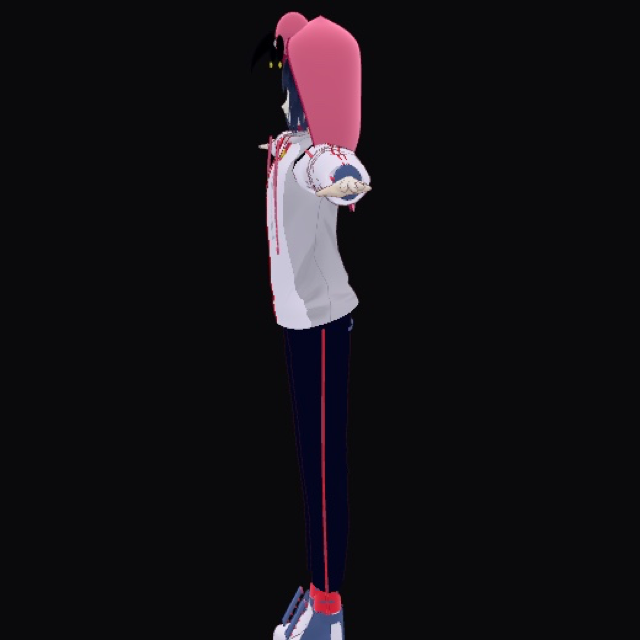
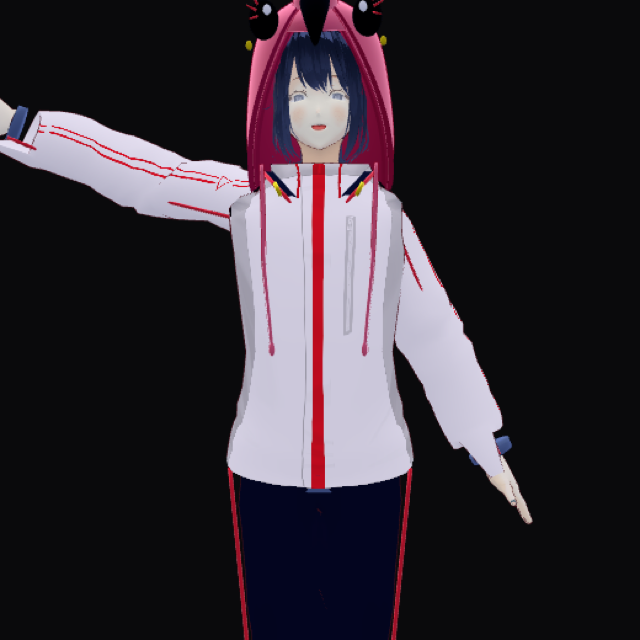
fix: replace spin demos with real presentation motion
- 05 VRM: head look, blink, talk, arm phases (front camera, no carousel)
- 03/04 mesh: bob/rock + short yaw arc instead of full 360 spin
- view3d multi-panel same present mode; README captions updated

Changed region(s): [[0.0, 0.0, 0.8438, 1.0]]

diff --git a/demos/view3d/capture.html b/demos/view3d/capture.html
@@ -2,14 +2,14 @@
 <html lang="ko">
 <head>
 <meta charset="utf-8" />
-<title>slot capture</title>
+<title>slot capture — real motion</title>
 <style>
   html, body { margin:0; width:100%; height:100%; overflow:hidden; background:#0a0a0c; }
   canvas { display:block; width:100%; height:100%; }
   #status {
     position:fixed; left:12px; top:12px; z-index:2; color:#9aa3b2;
     font:12px/1.3 system-ui,sans-serif; opacity:.85; pointer-events:none;
-    display:none; /* hidden for clean README GIFs; ?debug=1 to show */
+    display:none;
   }
 </style>
 </head>
@@ -25,6 +25,11 @@
 }
 </script>
 <script type="module">
+/**
+ * README motion capture — NOT endless turntable.
+ *  obj/fbx: bob + rock + short yaw arc (mesh has no usable rig)
+ *  vrm: head / blink / talk / arm pose phases (like 06 demoMotion)
+ */
 import * as THREE from 'three';
 import { FBXLoader } from 'three/addons/loaders/FBXLoader.js';
 import { OBJLoader } from 'three/addons/loaders/OBJLoader.js';
@@ -37,7 +42,6 @@ const SIZE = Math.min(720, Math.max(480, Number(params.get('size') || 560)));
 const status = document.getElementById('status');
 if (params.get('debug') === '1') status.style.display = 'block';
 
-// fixed pixel size for consistent capture
 document.documentElement.style.width = SIZE + 'px';
 document.documentElement.style.height = SIZE + 'px';
 document.body.style.width = SIZE + 'px';
@@ -70,22 +74,39 @@ scene.add(fill);
 
 let root = null;
 let vrm = null;
+let meshMax = 1;
+let lookY = 0;
+let camDist = 1;
 let t0 = performance.now();
 window.__captureReady = false;
 window.__captureKind = kind;
+
+function smoothstep(a, b, x) {
+  const t = Math.min(1, Math.max(0, (x - a) / (b - a)));
+  return t * t * (3 - 2 * t);
+}
+function lerp(a, b, t) { return a + (b - a) * t; }
 
 function fit(object, offset = 1.4) {
   const box = new THREE.Box3().setFromObject(object);
   const size = box.getSize(new THREE.Vector3());
   const center = box.getCenter(new THREE.Vector3());
-  const max = Math.max(size.x, size.y, size.z) || 1;
+  meshMax = Math.max(size.x, size.y, size.z) || 1;
   object.position.sub(center);
-  // slight lift for characters
-  if (kind === 'vrm') object.position.y += size.y * 0.02;
-  camera.position.set(max * 0.85, max * 0.45, max * offset);
-  camera.near = max / 200;
-  camera.far = max * 50;
-  camera.lookAt(0, kind === 'vrm' ? max * 0.08 : 0, 0);
+  if (kind === 'vrm') {
+    // bust-up, face camera (three-vrm faces -Z after rotateVRM0 → cam on -Z)
+    lookY = size.y * 0.22;
+    object.position.y += size.y * 0.02;
+    camDist = Math.max(size.y, size.x) * 1.05;
+    camera.position.set(0, lookY + size.y * 0.02, -camDist * 0.85);
+  } else {
+    lookY = 0;
+    camDist = meshMax * offset;
+    camera.position.set(meshMax * 0.55, meshMax * 0.35, camDist);
+  }
+  camera.near = meshMax / 200;
+  camera.far = meshMax * 50;
+  camera.lookAt(0, lookY, 0);
   camera.updateProjectionMatrix();
 }
 
@@ -96,15 +117,157 @@ function setObject(obj, fitOff) {
   fit(obj, fitOff);
 }
 
+function bone(name) {
+  if (!vrm?.humanoid) return null;
+  try {
+    return vrm.humanoid.getNormalizedBoneNode(name);
+  } catch {
+    return null;
+  }
+}
+
+function setExpr(name, v) {
+  if (!vrm?.expressionManager) return;
+  try { vrm.expressionManager.setValue(name, v); } catch {}
+}
+
+/** VRM: multi-phase motion — NOT a spin */
+function animateVrm(t) {
+  const head = bone('head');
+  const neck = bone('neck');
+  const chest = bone('chest') || bone('upperChest');
+  const spine = bone('spine');
+  const lUpper = bone('leftUpperArm');
+  const rUpper = bone('rightUpperArm');
+  const lLower = bone('leftLowerArm');
+  const rLower = bone('rightLowerArm');
+  const lHand = bone('leftHand');
+  const rHand = bone('rightHand');
+
+  // idle breath
+  const breath = Math.sin(t * 2.2) * 0.015;
+  if (spine) spine.rotation.x = breath;
+  if (chest) chest.rotation.x = breath * 0.6;
+
+  // phases ~1.8s: look → blink/talk → arms out → wave R → rest
+  const cycle = 9.0;
+  const u = t % cycle;
+  const p = Math.floor(u / 1.8); // 0..4
+  const local = (u % 1.8) / 1.8;
+  const ease = smoothstep(0, 0.25, local) * (1 - smoothstep(0.75, 1, local));
+
+  // reset arms toward rest (T-pose VRM often needs down)
+  const restArm = 1.15; // fold arms down from T
+  if (lUpper) { lUpper.rotation.z = restArm; lUpper.rotation.x = 0; lUpper.rotation.y = 0; }
+  if (rUpper) { rUpper.rotation.z = -restArm; rUpper.rotation.x = 0; rUpper.rotation.y = 0; }
+  if (lLower) { lLower.rotation.x = 0.1; lLower.rotation.y = 0; lLower.rotation.z = 0; }
+  if (rLower) { rLower.rotation.x = 0.1; rLower.rotation.y = 0; rLower.rotation.z = 0; }
+  if (lHand) { lHand.rotation.set(0, 0, 0); }
+  if (rHand) { rHand.rotation.set(0, 0, 0); }
+
+  setExpr('blink', 0);
+  setExpr('aa', 0);
+  setExpr('ih', 0);
+  setExpr('ou', 0);
+  setExpr('happy', 0);
+
+  if (head) {
+    head.rotation.x = Math.sin(t * 1.1) * 0.04;
+    head.rotation.y = 0;
+    head.rotation.z = Math.sin(t * 0.7) * 0.03;
+  }
+  if (neck) neck.rotation.y = 0;
+
+  if (p === 0) {
+    // look L/R
+    if (head) head.rotation.y = Math.sin(local * Math.PI * 2) * 0.45 * ease;
+    if (neck) neck.rotation.y = head ? head.rotation.y * 0.4 : 0;
+  } else if (p === 1) {
+    // blink + talk
+    const blink = local < 0.15 ? smoothstep(0, 0.07, local) * (1 - smoothstep(0.08, 0.15, local))
+      : (local > 0.55 && local < 0.7)
+        ? smoothstep(0.55, 0.6, local) * (1 - smoothstep(0.62, 0.7, local))
+        : 0;
+    setExpr('blink', blink);
+    const talk = 0.5 + 0.5 * Math.sin(local * Math.PI * 8);
+    setExpr('aa', talk * 0.7 * ease);
+    setExpr('ih', (1 - talk) * 0.35 * ease);
+    if (head) head.rotation.x = 0.05 + Math.sin(local * 20) * 0.02;
+  } else if (p === 2) {
+    // both arms forward/out
+    if (lUpper) {
+      lUpper.rotation.z = lerp(restArm, 0.35, ease);
+      lUpper.rotation.x = lerp(0, -0.6, ease);
+      lUpper.rotation.y = lerp(0, 0.25, ease);
+    }
+    if (rUpper) {
+      rUpper.rotation.z = lerp(-restArm, -0.35, ease);
+      rUpper.rotation.x = lerp(0, -0.6, ease);
+      rUpper.rotation.y = lerp(0, -0.25, ease);
+    }
+    if (lLower) lLower.rotation.x = lerp(0.1, 0.5, ease);
+    if (rLower) rLower.rotation.x = lerp(0.1, 0.5, ease);
+    setExpr('happy', 0.4 * ease);
+  } else if (p === 3) {
+    // wave right
+    if (rUpper) {
+      rUpper.rotation.z = lerp(-restArm, -0.2, ease);
+      rUpper.rotation.x = lerp(0, -1.4, ease);
+      rUpper.rotation.y = lerp(0, -0.3, ease);
+    }
+    if (rLower) {
+      rLower.rotation.x = lerp(0.1, 0.2, ease);
+      rLower.rotation.z = Math.sin(local * Math.PI * 6) * 0.55 * ease;
+    }
+    if (rHand) rHand.rotation.z = Math.sin(local * Math.PI * 6) * 0.35 * ease;
+    if (lUpper) {
+      lUpper.rotation.z = restArm * 0.95;
+      lUpper.rotation.x = -0.15;
+    }
+    setExpr('happy', 0.55 * ease);
+  } else {
+    // rest / slight sway
+    if (head) head.rotation.y = Math.sin(t * 1.3) * 0.12;
+    setExpr('happy', 0.15);
+  }
+
+  // tiny body yaw only — keep face toward camera
+  if (root) root.rotation.y = Math.sin(t * 0.5) * 0.12;
+}
+
+/** Static mesh: bob + rock + short yaw arc (no endless spin) */
+function animateMesh(t) {
+  if (!root) return;
+  const cycle = 5.0;
+  const u = (t % cycle) / cycle;
+  // bob
+  root.position.y = Math.sin(t * 2.4) * meshMax * 0.03;
+  // rock
+  root.rotation.x = Math.sin(t * 1.6) * 0.12;
+  root.rotation.z = Math.sin(t * 1.1) * 0.08;
+  // short yaw arc: -35° ↔ +35° (not 360°)
+  root.rotation.y = Math.sin(u * Math.PI * 2) * 0.6;
+  // subtle camera orbit for depth (quarter circle feel)
+  const ang = 0.35 + Math.sin(t * 0.7) * 0.45;
+  const elev = 0.32 + Math.sin(t * 0.5) * 0.08;
+  camera.position.set(
+    Math.sin(ang) * camDist * 0.95,
+    elev * meshMax,
+    Math.cos(ang) * camDist * 0.95,
+  );
+  camera.lookAt(0, lookY + root.position.y * 0.3, 0);
+}
+
 function markReady() {
-  // render a couple frames then flag
-  for (let i = 0; i < 3; i++) {
-    if (root) root.rotation.y = 0.15 * i;
-    if (vrm) vrm.update(1 / 30);
+  for (let i = 0; i < 4; i++) {
+    if (vrm) {
+      animateVrm(i * 0.05);
+      vrm.update(1 / 30);
+    } else if (root) {
+      animateMesh(i * 0.05);
+    }
     renderer.render(scene, camera);
   }
-  if (root) root.rotation.y = 0;
-  renderer.render(scene, camera);
   window.__captureReady = true;
   status.textContent = `ready · ${kind}`;
 }
@@ -112,19 +275,12 @@ function markReady() {
 function tick() {
   requestAnimationFrame(tick);
   const t = (performance.now() - t0) / 1000;
-  if (root) {
-    // full turn ~4.5s
-    root.rotation.y = t * (Math.PI * 2 / 4.5);
-    if (kind === 'vrm') {
-      // gentle head/idle
-      const head = root.getObjectByName('J_Bip_C_Head') || root.getObjectByName('Head');
-      if (head) {
-        head.rotation.x = Math.sin(t * 1.4) * 0.08;
-        head.rotation.z = Math.sin(t * 0.9) * 0.05;
-      }
-    }
+  if (kind === 'vrm' && vrm) {
+    animateVrm(t);
+    vrm.update(1 / 60);
+  } else if (root) {
+    animateMesh(t);
   }
-  if (vrm) vrm.update(1 / 60);
   renderer.render(scene, camera);
 }
 tick();
@@ -176,9 +332,14 @@ async function load() {
       if (vrm) {
         try { VRMUtils.rotateVRM0(vrm); } catch (_) {}
         vrm.scene.traverse((o) => { o.frustumCulled = false; });
-        setObject(vrm.scene, 1.2);
+        // start arms down if T-pose
+        const lU = bone('leftUpperArm');
+        const rU = bone('rightUpperArm');
+        if (lU) lU.rotation.z = 1.15;
+        if (rU) rU.rotation.z = -1.15;
+        setObject(vrm.scene, 1.15);
       } else {
-        setObject(gltf.scene, 1.2);
+        setObject(gltf.scene, 1.15);
       }
       markReady();
       return;

diff --git a/demos/view3d/index.html b/demos/view3d/index.html
@@ -88,9 +88,16 @@ function makeViewer(panel, opts = {}) {
   window.addEventListener('resize', onResize);
 
   let root = null;
+  let t0 = performance.now();
   const tick = () => {
     requestAnimationFrame(tick);
-    if (opts.autoRotate && root) root.rotation.y += 0.006;
+    const t = (performance.now() - t0) / 1000;
+    if (root && opts.present) {
+      // short presentation motion — not endless carousel spin
+      root.rotation.y = Math.sin(t * 0.55) * 0.55;
+      root.rotation.x = Math.sin(t * 1.3) * 0.08;
+      root.position.y = Math.sin(t * 2.1) * 0.02 * (opts.bob || 1);
+    }
     controls.update();
     renderer.render(scene, camera);
   };
@@ -134,7 +141,7 @@ const VRM_URL = `${ROOT}/05-flamingo-motion-vrm/models/flamingo_motion.vrm`;
 
 // B — Meshy FBX (slot 04)
 {
-  const v = makeViewer(document.getElementById('p2'), { autoRotate: true, fit: 1.6 });
+  const v = makeViewer(document.getElementById('p2'), { present: true, fit: 1.6, bob: 1 });
   const loader = new FBXLoader();
   loader.load(MESHY_FBX, (fbx) => {
     const tex = new THREE.TextureLoader().load(MESHY_TEX);
@@ -164,7 +171,7 @@ const VRM_URL = `${ROOT}/05-flamingo-motion-vrm/models/flamingo_motion.vrm`;
 
 // C — OBJ (slot 03)
 {
-  const v = makeViewer(document.getElementById('p3'), { autoRotate: true, fit: 1.5 });
+  const v = makeViewer(document.getElementById('p3'), { present: true, fit: 1.5, bob: 1 });
   new OBJLoader().load(OBJ_URL, (obj) => {
     obj.traverse((o) => {
       if (o.isMesh) {
@@ -184,7 +191,7 @@ const VRM_URL = `${ROOT}/05-flamingo-motion-vrm/models/flamingo_motion.vrm`;
 
 // D — VRM (slot 05)
 {
-  const v = makeViewer(document.getElementById('p4'), { autoRotate: true, fit: 1.25 });
+  const v = makeViewer(document.getElementById('p4'), { present: true, fit: 1.15, bob: 0.5 });
   const loader = new GLTFLoader();
   loader.register((parser) => new VRMLoaderPlugin(parser));
   loader.load(VRM_URL, (gltf) => {
@@ -192,7 +199,29 @@ const VRM_URL = `${ROOT}/05-flamingo-motion-vrm/models/flamingo_motion.vrm`;
     if (vrm) {
       try { VRMUtils.rotateVRM0(vrm); } catch (_) {}
       vrm.scene.traverse((o) => { o.frustumCulled = false; });
+      // fold T-pose arms down a bit for rest
+      try {
+        const l = vrm.humanoid?.getNormalizedBoneNode('leftUpperArm');
+        const r = vrm.humanoid?.getNormalizedBoneNode('rightUpperArm');
+        if (l) l.rotation.z = 1.1;
+        if (r) r.rotation.z = -1.1;
+      } catch {}
       v.setObject(vrm.scene);
+      // lightweight idle in multi-panel
+      const t0 = performance.now();
+      const idle = () => {
+        requestAnimationFrame(idle);
+        const t = (performance.now() - t0) / 1000;
+        try {
+          const head = vrm.humanoid?.getNormalizedBoneNode('head');
+          if (head) {
+            head.rotation.y = Math.sin(t * 1.2) * 0.25;
+            head.rotation.x = Math.sin(t * 1.6) * 0.06;
+          }
+          vrm.update(1 / 60);
+        } catch {}
+      };
+      idle();
     } else {
       v.setObject(gltf.scene);
     }

diff --git a/README.md b/README.md
@@ -29,12 +29,12 @@
 | 01 · 4컷 PNGTuber | 02 · 라우디 러프 + 후드 | 03 · flamingo_3d.obj |
 |:--:|:--:|:--:|
 | ![01](demos/01-pngtuber.gif) | ![02](demos/02-chibi25d.gif) | ![03](demos/03-obj.gif) |
-| 입 · 깜빡 · 흔들림 | 고개 · 입 · 윙크 · 손 포즈 | 로우폴리 메시 회전 |
+| 입 · 깜빡 · 흔들림 | 고개 · 입 · 윙크 · 손 포즈 | bob · rock · 짧은 yaw (본 없음) |
 
 | 04 · Meshy FBX | 05 · flamingo_motion.vrm | 06 · VRM 풀 앱 |
 |:--:|:--:|:--:|
 | ![04](demos/04-meshy.gif) | ![05](demos/05-vrm.gif) | ![06](demos/06-vroid.gif) |
-| 생성 3D 텍스처 메시 회전 | 리깅 VRM 턴테이블 | 고개/표정 · 팔·손 포즈 사이클 |
+| bob · rock · 짧은 yaw | 고개·깜빡·입·팔 포즈 페이즈 | 고개/표정 · 팔·손 포즈 사이클 |
 
 > 데모는 **설명용 스크립트 모션** (얼굴이 영상에 안 나오게).  
 > 실제 앱(01/02/06)은 웹캠 Face/Pose 트래킹. 소스·캡처: [`demos/`](demos/)

diff --git a/05-flamingo-motion-vrm/README.md b/05-flamingo-motion-vrm/README.md
@@ -12,7 +12,8 @@
 
 ![demo](../demos/05-vrm.gif)
 
-턴테이블 + 가벼운 고개 모션. 이 레포 안에서는 **모델·비교용** (풀 트래킹 셸은 형제 앱/06).
+고개 좌우 · 깜빡 · 입 모양 · 팔 포즈 페이즈 (턴테이블 아님).  
+이 레포 안에서는 **모델·비교용** (풀 트래킹 셸은 형제 앱/06).
 
 ## 모델
 
